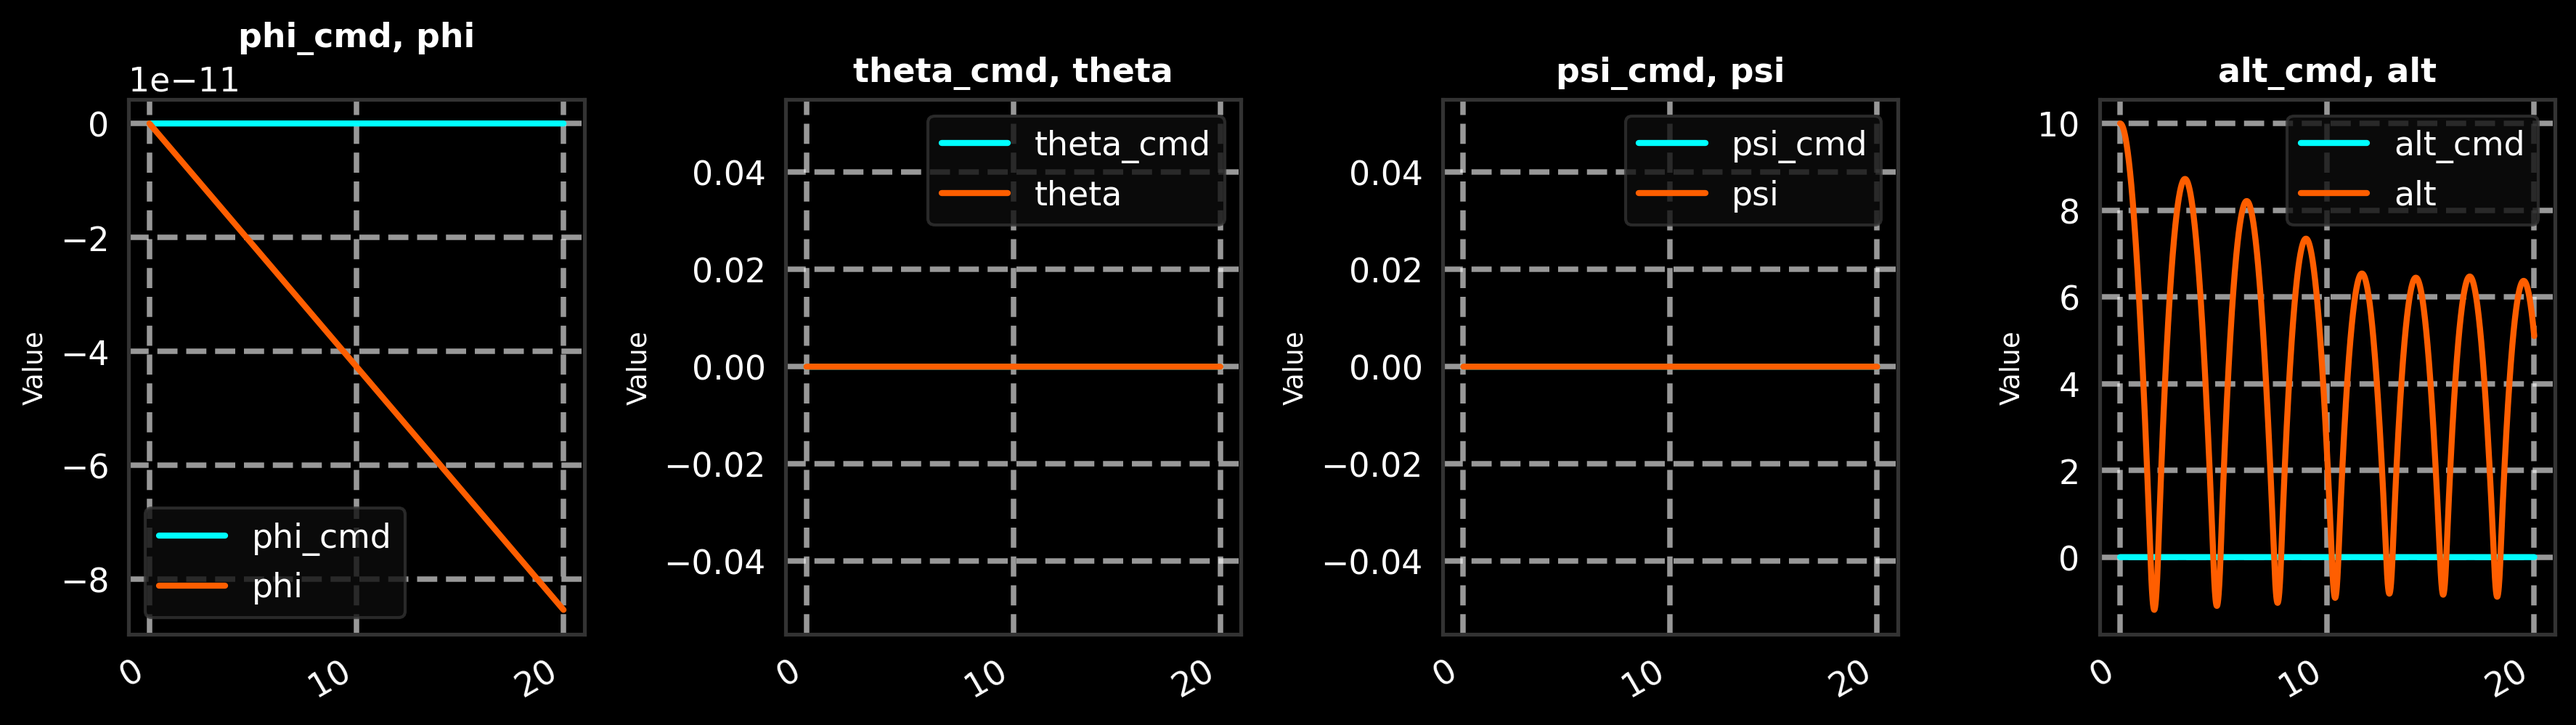
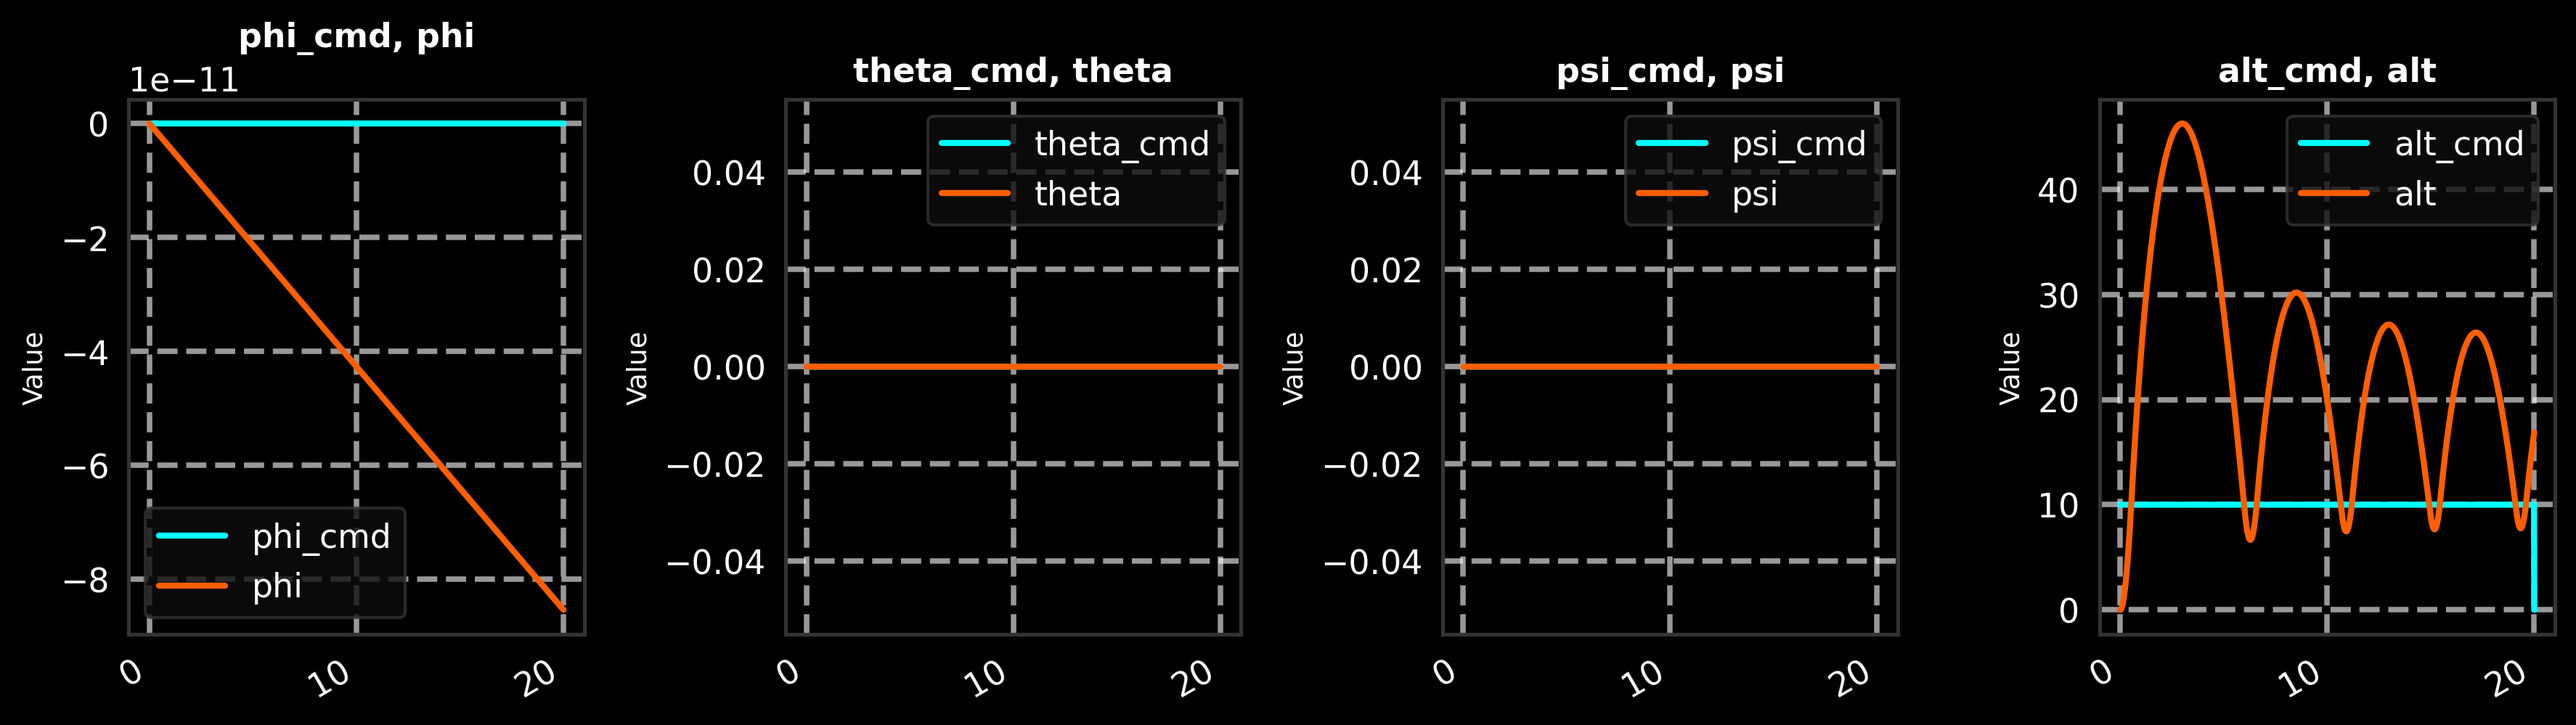
Completed the controller design for DJI Mavic pro quadcopter. Tested the controller with different inputs applied simultaneously (roll, pitch, yaw and altitude), with constraints applied in the cascaded controller.

Changed region(s): [[0.7751, 0.1552, 0.9921, 0.8689]]

diff --git a/Aerospace/control/main.py b/Aerospace/control/main.py
@@ -27,7 +27,7 @@ from simulations.Aerospace.sixDOF.tools.state_space import StateSpace
 def main():
     dt_plant = 0.01
     dt_ctrl = 0.01
-    sim_time = 20.
+    sim_time = 30.
 
     t0 = 0
 
@@ -70,17 +70,18 @@ def main():
     control_gains['p']['ki']    = 0.3456 * 1
     control_gains['p']['kd']    = 0.
 
-    control_gains['q']['kp']    = 0.00864 * 2
-    control_gains['q']['ki']    = 0.3456 * 2
+    control_gains['q']['kp']    = 0.00864 * 1
+    control_gains['q']['ki']    = 0.3456 * 1
     control_gains['q']['kd']    = 0.
 
     control_gains['r']['kp']    = 0.1008
     control_gains['r']['ki']    = 0.448
     control_gains['r']['kd']    = 0.
 
-    control_gains['h']['kp']    = 6
-    control_gains['w']['kp']    = 10.6992 #*10
-    control_gains['w']['ki']    = 47.552  #/30
+    control_gains['h']['kp']    = 2
+    control_gains['w']['kp']    = 10.6992 * 1
+    control_gains['w']['ki']    = 47.552  * 1
+    # control_gains['w']['kd']    = 20
 
     vmod = quadcopter.Quad_X_DJI_Mavic_Pro()
     vehicle_intf = VehicleInterface()
@@ -114,30 +115,49 @@ def main():
     u = np.empty((nu0, n_t_ctrl), dtype=float)
 
     simulation_test = 'quad_pi_tuned_ctrl_test_full_cmd_nl'
-    test_count = 1
+    test_count = 3
     # setting trim states as init value for sim
     x[:-1, 0] = x0[:-1]
-    x[-1, 0] = -10.
+    x[-1, 0] = -0.
 
     # timeseries control input
-    time_data = np.array([0., 1., 1.1, 3., 3.1, 5., 5.1, 8., 8.1, 10.])
+    time_data = np.array([0., 5., 5.1, 12., 12.1, 18., 18.1, 22., 22.1, 25.])
     phi_cmd = theta_cmd = psi_cmd = np.array([0.] * 10)
     delta = 5/57.3
-    # phi_cmd = np.array([0., 0., -delta, -delta, 0., 0., delta, delta, 0., 0.])
-    # theta_cmd = -1 * np.array([0., 0., -delta, -delta, 0., 0., delta, delta, 0., 0.])
+    phi_cmd = np.array([0., 0., -delta, -delta, 0., 0., delta, delta, 0., 0.])
+    theta_cmd = -1 * np.array([0., 0., -delta, -delta, 0., 0., delta, delta, 0., 0.])
     # theta_cmd = np.array([0., 0., 0., 0., 0., 0., 0., 0., 0., 0.])
-    # psi_cmd = np.deg2rad(-45) * np.array([1.] * 10)
+    psi_cmd = np.deg2rad(-45) * np.array([1.] * 10)
     # alt_cmd = 200 * np.array([0., 0., 0., 0., 1., 1., 1., 1., 0., 0.])
-    alt_cmd = np.array([0., 0., 0., 0., 0., 0., 0., 0., 0., 0.])
+    alt_cmd = 100 * np.array([1.] * 10)
 
     measurements = defaultdict(dict)
     setpoints = defaultdict(dict)
     vmod.rho_kgpm3 = 1.2
     # trim_thrust = [vmod._thrust_model(u0[0])] * 4
-    # trim_thrust = [1.884] * 4
+    trim_thrust = [1.884] * 4
+
+    # For some diagnosis
+    # controller.alt_ctrl.i_limit_en = False
+    # controller.alt_ctrl.u_limit_en = False
+    # controller.alt_rate_ctrl.i_limit_en = False
+    # controller.alt_rate_ctrl.u_limit_en = False
+    # alt_err_history = [0.]
+    # v_climb_history = [0.]
+    # v_climb_cmd_history = [0.]
+    # delta_T_cmd_history = [0.]
+    # h_old = 0.
+    # hdot_history = [0.]
+    # hdot_history_6dof = [0.]
+    # u_hist = [0.]
+    # v_hist = [0.]
+    # w_hist = [0.]
+    # ned_w_hist = [0.]
 
     for i, t in enumerate(t_plant[:-1], start=1):
         # print(t)
+        if t == 1:
+            a=1
 
         v_cmd[0,i-1] = interp(time_data, phi_cmd, t)
         v_cmd[1,i-1] = interp(time_data, theta_cmd, t)
@@ -162,8 +182,8 @@ def main():
         w_b = x[2,i-1]
         measurements['w_ned'] = f_tfr.vertical_velo_ned(
             x[0,i-1],
+            x[1,i-1],
             x[2,i-1],
-            x[3,i-1],
             x[6,i-1],
             x[7,i-1],
             x[8,i-1],
@@ -173,16 +193,24 @@ def main():
 
         v[:,i] = controller.compute_control(setpoints, measurements)
         # print(v[:,i]) # for debug
-        u[:,i] = vehicle_intf.u_cmd_perturb(v[:,i], hover_thrust, rho)
+        u[:,i] = vehicle_intf.u_cmd_perturb(v[:,i], trim_thrust, rho)
         # print(u[:,i]) # for debug
 
         # Non-linear plant
-        x[:,i] , _ = rk4(flat_earth_eom, t, x[:,i-1], u[:,i], dt_plant, vmod=vmod, amod=amod) 
-        # print(x[3:9,i])
-        # Linear plant
-        # x[:, i] = lin_plant.outputs(x[:,i-1], u[:,i])
-        # x[:, i] = lin_plant.step(u[:,i-1])
-        # x[:, i] = x[:, i-1] + dt_plant * lin_plant._derivatives(0., x[:, i-1], u[:,i-1])
+        x[:,i] , dx = rk4(flat_earth_eom, t, x[:,i-1], u[:,i], dt_plant, vmod=vmod, amod=amod) 
+
+        # Diagnosis plots
+        # alt_err_history.append(controller.alt_ctrl.error)
+        # v_climb_history.append(measurements['w_ned'])
+        # v_climb_cmd_history.append(controller.v_cmd)
+        # delta_T_cmd_history.append(controller.delta_T_cmd)
+        # hdot = (measurements['h'] - h_old)/dt_plant
+        # h_old = measurements['h']
+        # hdot_history.append(hdot)
+        # hdot_history_6dof.append(-dx[11])
+        # u_hist.append(x[0,i])
+        # v_hist.append(x[1,i])
+        # w_hist.append(x[2,i])
 
     # plotting
 
@@ -200,6 +228,15 @@ def main():
             "rpm2": u[1,:],
             "rpm3": u[2,:],
             "rpm4": u[3,:],
+            # "alt_err": alt_err_history,
+            # "v_climb": v_climb_history,
+            # "v_climb_cmd": v_climb_cmd_history,
+            # "delta_T_cmd": delta_T_cmd_history,
+            # "hdot": hdot_history,
+            # "hdot_model":hdot_history_6dof,
+            # "u":u_hist,
+            # "v":v_hist,
+            # "w":w_hist,
         })
         
     subplot_config = [
@@ -207,9 +244,27 @@ def main():
             ["theta_cmd", "theta"],
             ["psi_cmd", "psi"],
             ["alt_cmd", "alt"],
+            ["rpm1", "rpm2"],
+            ["rpm3", "rpm4"]
         ]
+
+    # subplot_config2 = [
+    #     # "alt_err",
+    #     "v_climb",
+    #     # "hdot_model",
+    #     "hdot",
+    #     "v_climb_cmd",
+    #     "delta_T_cmd",
+    #     "u",
+    #     "v",
+    #     "w",
+    # ]
     
-    plot_results(df_sim, subplot_config, f'savefig/{simulation_test}_{test_count}.png', ncols=4)
+    plot_results(df_sim, subplot_config, f'savefig/{simulation_test}_{test_count}.png', ncols=3)
+    
+    # Diagnosis plot
+    # plot_results(df_sim, subplot_config2, f'savefig/{simulation_test}_alt_loop_diagnosis.png', ncols=2)
+
 
 if __name__ == '__main__':
     main()

diff --git a/Aerospace/control/interface/frame_transformation.py b/Aerospace/control/interface/frame_transformation.py
@@ -18,4 +18,4 @@ class FrameTransformer:
             for the controller
         """
         self._update(u, v, w, phi, theta, psi)
-        return -1. * (-self.u * np.sin(self.theta) + self.v * np.sin(self.phi) * np.cos(self.theta) + self.w * np.cos(self.phi) * np.cos(self.theta))
+        return -1. * ((-1*self.u * np.sin(self.theta)) + (self.v * np.sin(self.phi) * np.cos(self.theta)) + (self.w * np.cos(self.phi) * np.cos(self.theta)))
